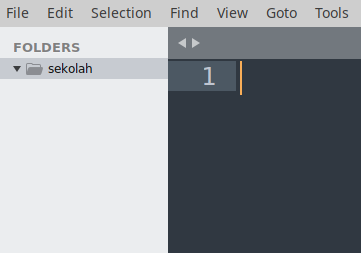
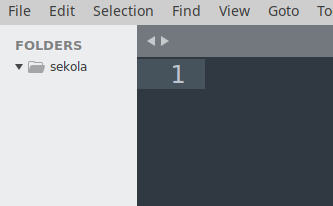
Langkah ke 2 dan start langkah ke3

Changed region(s): [[0.0, 0.0291, 1.0, 1.0]]

diff --git a/steps/langkah2.md b/steps/langkah2.md
@@ -1,0 +1,83 @@
+# Langkah kedua - Membuat rancangan database untuk aplikasi
+
+Sebuah aplikasi, tidak bisa dikerjakan tanpa adanya perencanaan dan perancangan.
+
+Menurut pengalaman kami, yang menjadi nyawa dari sebuah aplikasi web binamis adalah `database`.
+
+`Database` merupakan kumpulan data yang terorganisir, yang umumnya disimpan dan diakses secara elektronik dari suatu sistem komputer. Sumber: [Wikipedia](https://id.wikipedia.org/wiki/Pangkalan_data).
+
+Apapun yang kita lihat di dalam sebuah aplikasi, entah itu nama aplikasi, logo, daftar menu, bahkan sampai harga barang pada aplikasi online shop, data tersebut berasal dari `database`.
+
+> Sederhananya,  `database` merupakan `sumber data` dan tempat dimana `data` harus disimpan.
+
+Oleh karena itu, merancang sebuah `database` merupakan hal yang penting untuk dilakukan pada tahap - tahap awal membuat sebuah aplikasi.
+
+## Aplikasi sekola
+Mari kita beri nama aplikasi ini dengan nama `sekola`.
+
+Agar dapat merancang sebuah `database`, kita harus menentukan:
+1. Apa saja yang akan terlibat dalam aplikasi ini?
+    * `Admin`, sebagai pengelola aplikasi sekola
+    * `Guru`, sebagai wali dari `Kelas` dan pengajar `Mata Pelajaran`.
+    * `Siswa`, sebagai pelajar di `Kelas`.
+    * `Kelas`, sebagai tempat KBM(Kegiatan Belajar Mengajar) berlangsung. `Guru` akan mengajar sesuai `Mata Pelajaran` ke `Siswa`
+    * `Tugas`, sebagai tugas yang akan diberikan oleh `Guru` ke `Siswa` sesuai dengan `Kelas` dan `Mata Pelajaran`.
+    * `Jawaban`, sebagai jawaban yang diberikan oleh siswa ke dalam `Tugas` yang diberikan oleh `Guru`.
+    * `Materi`, sebagai materi yang akan diberikan oleh `Guru` ke `Siswa` sesuai dengan `Kelas` dan `Mata Pelajaran`.
+    * `Posting`, sebagai pengumuman yang akan diberikan oleh `Guru` ke `Siswa` sesuai dengan `Kelas` dan `Mata Pelajaran`.
+    * `Komentar`, sebagai komentar yang akan diberikan oleh `Guru` dan `Siswa` di setiap `Tugas`, `Materi`, `Posting` sesuai dengan `Kelas` dan `Mata Pelajaran`.
+2. Aktivitas apa saja yang dapat dilakukan dalam aplikasi sekola?
+    * Ketika login sebagai `Admin`
+        * `Admin` membuat, melihat, mengedit dan menghapus `Kelas`
+        * `Admin` membuat, melihat, mengedit dan menghapus `Guru`
+        * `Admin` membuat, melihat, mengedit dan menghapus `Siswa`
+        * `Admin` membuat, melihat, mengedit dan menghapus `Tugas`
+        * `Admin` membuat, melihat, mengedit dan menghapus `Materi`
+        * `Admin` membuat, melihat, mengedit dan menghapus `Posting`
+    *  Ketika login sebagai `Guru`.
+        * `Guru` membuat, melihat, mengedit dan menghapus `Kelas`
+        * `Guru` membuat, melihat, mengedit dan menghapus `Tugas`
+        * `Guru` membuat, melihat, mengedit dan menghapus `Materi`
+        * `Guru` membuat, melihat, mengedit dan menghapus `Posting`
+        * `Guru` membuat, melihat, dan menghapus `Komentar`
+        * `Guru` menilai (membuat nilai) untuk `Tugas` yang dikerjakan oleh `Siswa`
+     * Ketika login sebagai `Siswa`.
+        * `Siswa` membuat, melihat, mengedit dan menghapus `Jawaban` untuk `Tugas` dari `Guru` di `Kelas`
+        * `Siswa` membuat, melihat, dan menghapus `Komentar` untuk `Tugas` dari `Guru` di `Kelas`
+        * `Siswa` membuat, melihat, dan menghapus `Komentar` untuk `Materi` dari `Guru` di `Kelas`
+        * `Siswa` membuat, melihat, dan menghapus `Komentar` untuk `Posting` dari `Guru` di `Kelas`
+
+> Note: Sebuah aplikasi harus menerapkan konsep CRUD (CREATE, READ, UPDATE, DELETE)
+> - CREATE = Membuat, menginput, memposting dan aktivitas sejenisnya
+> - READ = Membaca, menampilkan, memunculkan dan aktivitas sejenisnya
+> - UPDATE = Memperbarui, mengedit dan aktivitas sejenisnya
+> - DELETE = Menghapus, membuang dan aktivitas sejenisnya
+
+## Desain database
+Dari deskripsi di atas, maka kita bisa menentukan tabel apa saja yang harus kita buat dan harus seperti apa strukrurnya. Berikut adalah gambar dari desain database yang akan kita terapkan.
+
+![Desain database sekola tanpa relasi](/images/image6.png)
+
+### Keterangan table pada database sekola
+
+|No|Nama Table|Keterangan|
+|---|----------|----------|
+|1|`siswa`|Berisi data siswa|
+|2|`kelas`|Berisi data kelas|
+|3|`distKelas`|Berisi data distribusi kelas atau penempatan `siswa` di dalam `kelas` masing masing|
+|4|`guru`|Berisi data guru|
+|5|`tugas`|Berisi data tugas yang ada dalam `kelas`|
+|6|`materi`|Berisi data materi yang ada dalam `kelas`|
+|7|`posting`|Berisi data posting / pengumuman yang ada dalam `kelas`|
+|8|`komentar`|Berisi data komentar yang ada pada `tugas`, `materi` atau `posting` pada `kelas`|
+|9|`jawaban`|Berisi data jawaban `siswa` yang ada dalam `tugas`|
+|10|`users`|Berisi data username dan password untuk login yang disertai role atau peran dari masing masing username untuk membedakan apakah dia `admin`, `siswa` atau `guru`|
+|11|`admin`|Berisi data admin|
+
+
+## Kesimpulan
+Pada tahap ini, kita sudah memahami desain database merupakan hal yang penting sebelum membuat proses dan tampilan websitenya. Penentuan desain database bisa diambil dari:
+* Siapa dan apa saja yang terlibat dalam aplikasi yang akan kita buat.
+* Aktivitas apa saja yang dapat dilakukan dalam aplikasi ini.
+
+### [Lanjut ke Langkah ketiga - Membuat database baru melalui CLI (Command Line Interface)](/steps/langka3.md)

diff --git a/steps/langkah1.md b/steps/langkah1.md
@@ -20,23 +20,23 @@
     sudo systemctl start apache2 && sudo systemctl start mysql
     ```
 2. Buka aplikasi web browser dan ketikkan `localhost` pada address bar dan tekan tombol `Enter`  untuk memastikan bahwa web server sudah berjalan dengan baik.
-3. Buat folder baru dengan nama `sekolah` di server local yang kita punya
-    * jika di windows, buat folder `sekolah` di dalam `c:\xampp\htdocs\`
-    * jika di linux, buat folder `sekolah` di dalam `/var/www/html/`
-    > yang selanjutnya lokasi tersebut akan kita sebut sebagai `localhost`
+3. Buat folder baru dengan nama `sekola` di server local yang kita punya
+    * jika di windows, buat folder `sekola` di dalam `c:\xampp\htdocs\`
+    * jika di linux, buat folder `sekola` di dalam `/var/www/html/`
+    > selanjutnya, lokasi tersebut akan kita sebut sebagai `localhost`
     >
-    > `c:\xampp\htdocs\` = `localhost` pada windows
-    >
-    > `/var/www/html/` = `localhost` pada linux
+    >> `c:\xampp\htdocs\` = `localhost` pada windows
+    >>
+    >> `/var/www/html/` = `localhost` pada linux
 4. Buka aplikasi text editor. Sebagai contoh, disini saya akan menggunakan aplikasi `Sublime Text`.
     * klik menu `File` > `Open Folder`
     * cari dan pilih folder `sekolah` yang ada di dalam `localhost` kita.
 5. Untuk kemudahan dalam proses "ngoding", silahkan gunakan tips berikut ini
     * Klik menu `View` > `Side Bar` > `Show Side Bar`, maka akan muncul folder project seperti pada gambar.
     ![Side bar pada sublime text](/images/image2.png)
-    * Bikin file baru langsung dari folder project. Caranya **klik kanan** pada folder `sekolah` yg ada di side bar, pilih `New File`, nanti akan terbuka file baru yang kosong seperti pada gambar.
+    * Bikin file baru langsung dari folder project. Caranya **klik kanan** pada folder `sekola` yg ada di side bar, pilih `New File`, nanti akan terbuka file baru yang kosong seperti pada gambar.
     ![New file dari folder pada sidebar](/images/image3.png)
-    * Kemudan simpan dengan cara pilih menu `File` > `Save`, simpan dengan nama `index.php`. File tersebut akan otomatis tersimpan di folder `sekolah` dalam `localhost`. Contoh seperti pada gambar.
+    * Kemudan simpan dengan cara pilih menu `File` > `Save`, simpan dengan nama `index.php`. File tersebut akan otomatis tersimpan di folder `sekola` dalam `localhost`. Contoh seperti pada gambar.
     ![index.php pada folder project](/images/image4.png)
 6. Buat syntax php sederhana dalam file `index.php`, seperti pada script di bawah ini:
 ```php
@@ -44,14 +44,24 @@
     echo "Ini adalah bahasa pemrograman PHP";
 ?>
 ``` 
-7. Akses website pertama kita langsung di aplikasi web browser, dengan mengetikkan format `localhost/[nama_folder_project]` pada address bar. Dalam kasus ini maka kita akan mengetikkan
+7. Akses website pertama kita dari web browser, dengan mengetikkan format `localhost/[nama_folder_project]` pada address bar. Dalam kasus ini maka kita akan mengetikkan
 ```url
-localhost/sekolah/
+localhost/sekola/
 ```
 karena
 ```
-[nama_folder_project] = sekolah
+[nama_folder_project] = sekola
 ```
 seperti pada gambar berikut
-![akses localhost/sekolah dari web browser](/images/image5.png)
 
+![akses localhost/sekola/ dari web browser](/images/image5.png)
+> file `index.php` sudah otomatis akan dipanggil jika mengakses aplikasi web, tidak perlu disebutkan, cukup `localhost/sekola/` saja. Jika kita punya nama file selain nama `index`, maka panggil nama filenya dengan lengkap, contoh : `localhost/sekola/admin.php`
+
+## Kesimpulan
+Untuk mulai "ngoding", aplikasi diatas harus sudah dipersiapkan.
+* Service apache dan mysql harus distart
+* Folder project sudah harus terbuka di aplikasi text editor
+* Web browser digunakan untuk melihat hasil dari script yang sudah kita buat, dengan mengakses `localhost/[nama_folder_project]` 
+
+
+### [Lanjut ke Langkah kedua - Membuat rancangan database untuk aplikasi](/steps/langkah2.md)

diff --git a/README.md b/README.md
@@ -19,6 +19,9 @@ ___
 
 ## Daftar isi
 
-1. ["Langkah pertama - Menyiapkan semua tools untuk memulai web programming"](/steps/langkah1.md) 
+1. [Langkah pertama - Menyiapkan semua tools untuk memulai web programming](/steps/langkah1.md)
+2. [Langkah kedua - Membuat rancangan database untuk aplikasi](/steps/langkah2.md)
+3. [Lanjut ke Langkah ketiga - Membuat database baru melalui CLI (Command Line Interface)](/steps/langka3.md)
+4. Langkah keempat - segera
 
 

diff --git a/steps/langka3.md b/steps/langka3.md
@@ -1,0 +1,1 @@
+# Langkah ketiga - Membuat database baru melalui CLI (Command Line Interface)
